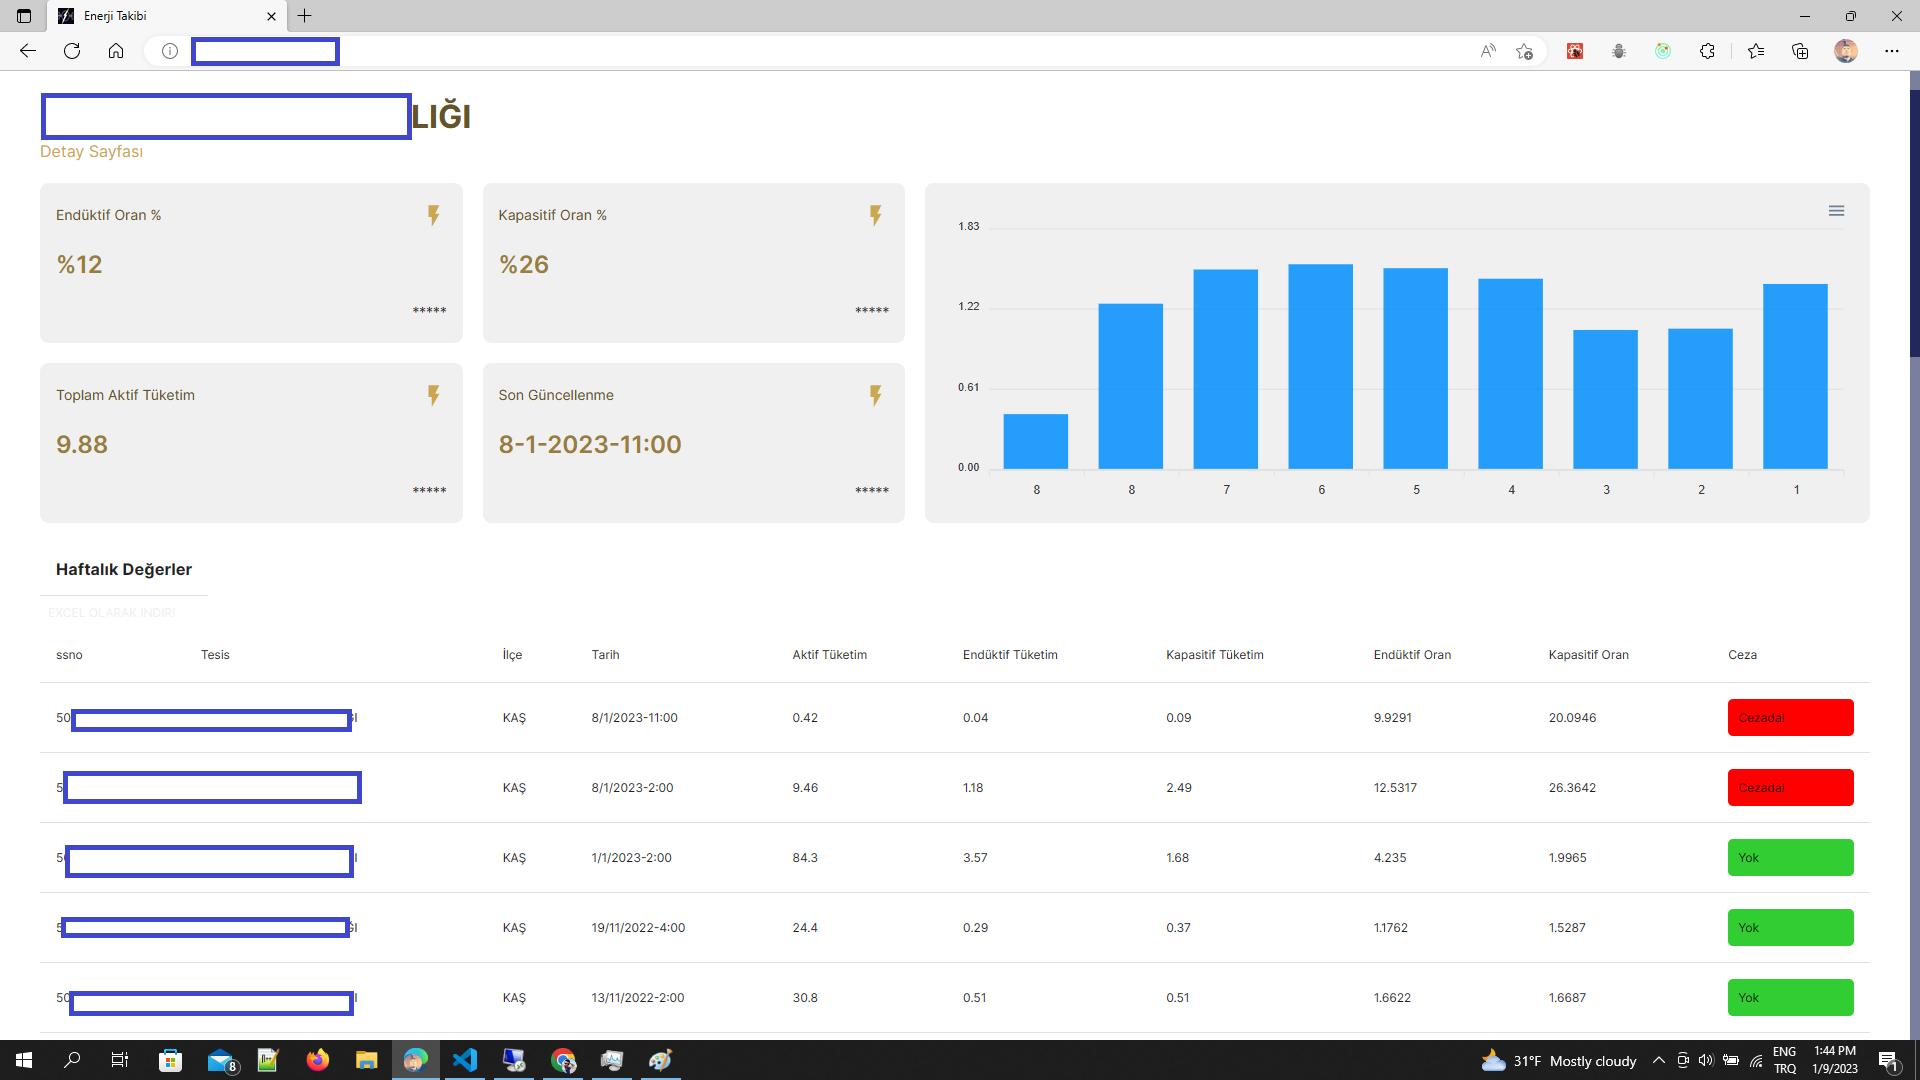
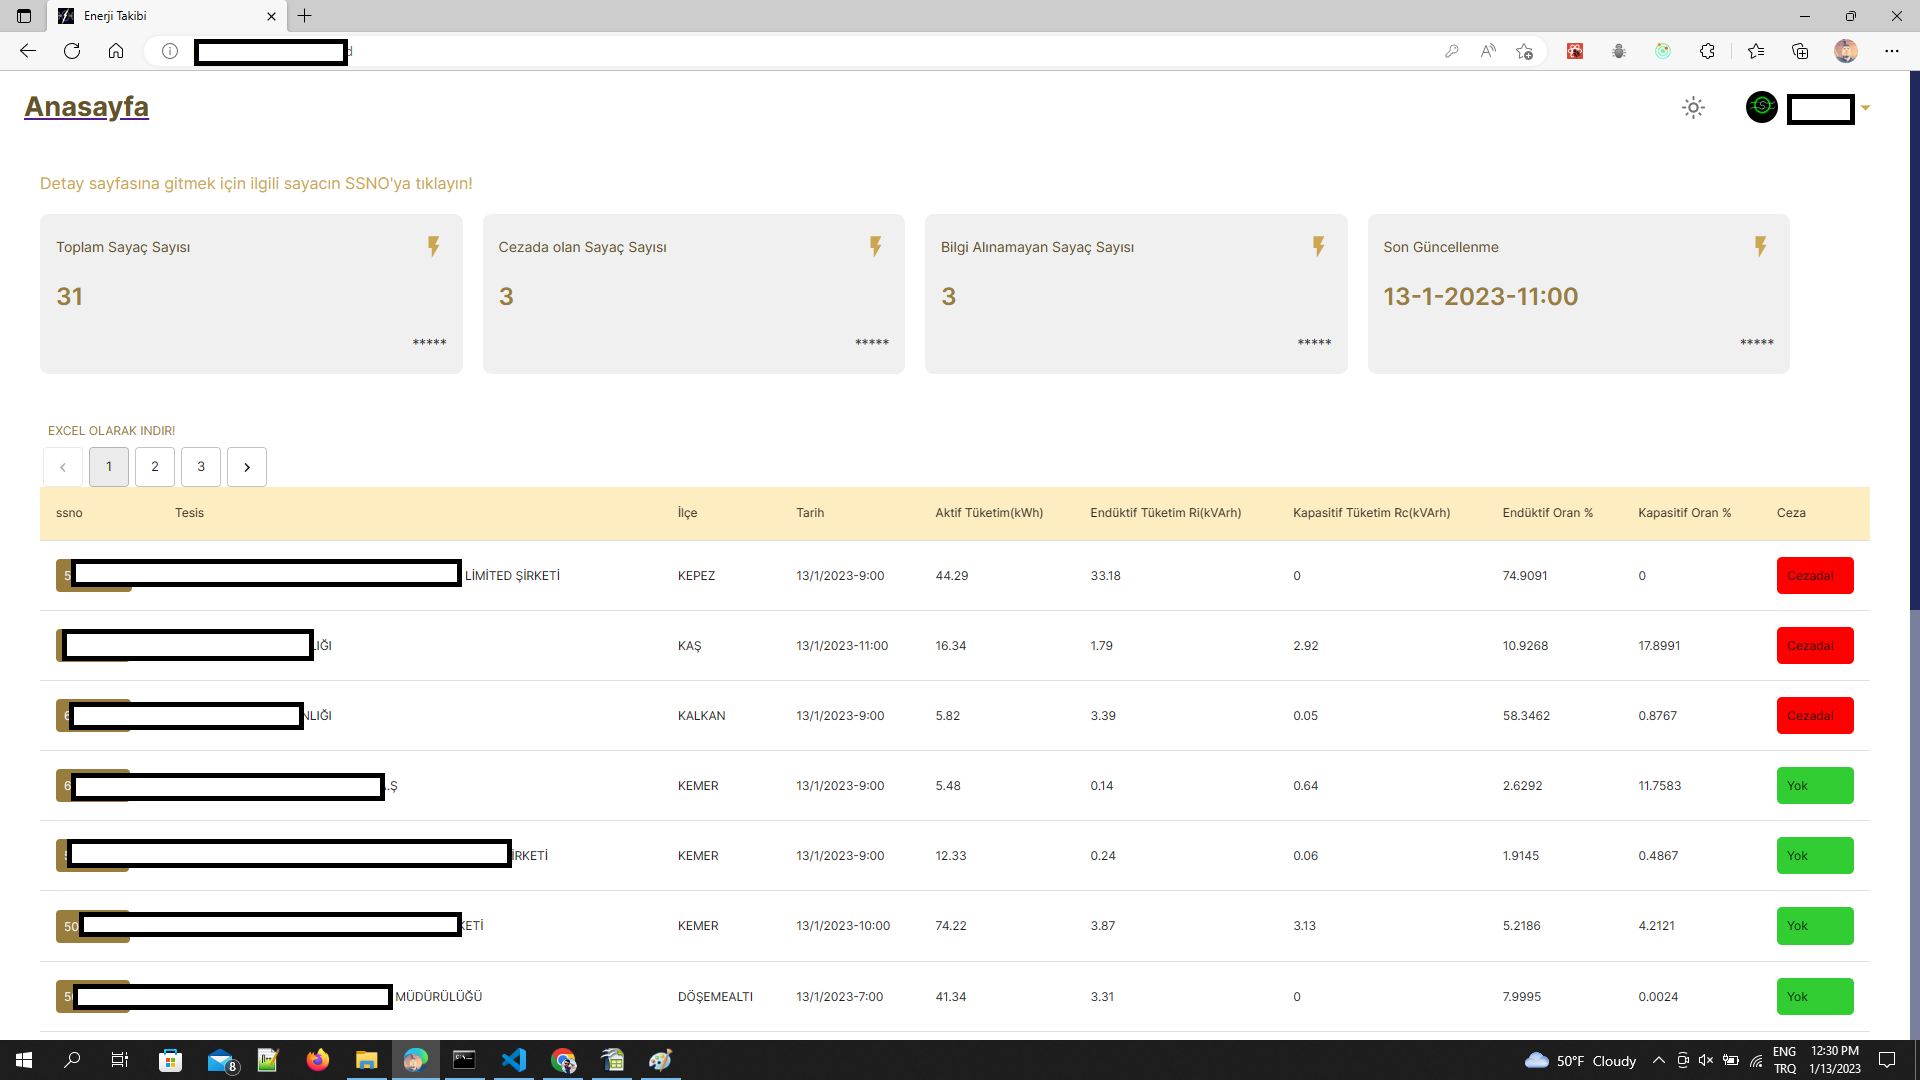
commit

diff --git a/client/src/scenes/Login/Login.jsx b/client/src/scenes/Login/Login.jsx
@@ -67,7 +67,7 @@ const Login = () => {
             </Typography>
           )}
           <Typography variant="h5" gutterBottom>
-            Sign In
+            Giriş Yap!
           </Typography>
           <TextField
             label="Email"
@@ -80,7 +80,7 @@ const Login = () => {
             style={{ backgroundColor: "transparent" }}
           />
           <TextField
-            label="Password"
+            label="Şifre"
             fullWidth
             type="password"
             value={password}
@@ -90,15 +90,7 @@ const Login = () => {
             marginTop="1rem"
             style={{ backgroundColor: "transparent" }}
           />
-          <FormControlLabel
-            control={
-              <Checkbox
-                checked={rememberMe}
-                onChange={handleRememberMeChange}
-              />
-            }
-            label="Remember Me"
-          />
+
           <Button
             type="submit"
             variant="contained"
@@ -106,7 +98,7 @@ const Login = () => {
             fullWidth
             style={{ marginTop: "1rem" }}
           >
-            {isLoading ? "Loading..." : "Login"}
+            {isLoading ? "Loading..." : "Giriş!"}
           </Button>
         </form>
       </Box>

diff --git a/client/src/components/DailyTable.jsx b/client/src/components/DailyTable.jsx
@@ -75,37 +75,37 @@ const DailyTable = () => {
       minWidth: isMobile ? "50px" : "70px"
     },
     {
-      headerName: "Aktif SD",
+      headerName: "Aktif SD (kWh)",
       field: "active",
       flex: 0.5,
       minWidth: isMobile ? "50px" : "70px",
     },
     {
-      headerName: "Endüktif SD",
+      headerName: "Endüktif SD Ri(kVArh)",
       field: "inductive",
       flex: 0.5,
       minWidth: isMobile ? "50px" : "70px",
     },
     {
-      headerName: "Kapasitif SD",
+      headerName: "Kapasitif SD Rc(kVArh)",
       field: "capacitive",
       flex: 0.5,
       minWidth: isMobile ? "50px" : "70px",
     },
     {
-      headerName: "Aktif Tüketim",
+      headerName: "Aktif Tüketim (kWh)",
       field: "active_cons",
       flex: 0.5,
       minWidth: isMobile ? "50px" : "70px",
     },
     {
-      headerName: "Endüktif Tüketim",
+      headerName: "Endüktif Tüketim Ri(kVArh)",
       field: "inductive_cons",
       flex: 0.5,
       minWidth: isMobile ? "50px" : "70px",
     },
     {
-      headerName: "Kapasitif Tüketim",
+      headerName: "Kapasitif Tüketim Rc(kVArh)",
       field: "capacitive_cons",
       flex: 0.5,
       minWidth: isMobile ? "50px" : "70px",

diff --git a/client/src/components/HourlyTable.jsx b/client/src/components/HourlyTable.jsx
@@ -78,37 +78,37 @@ const HourlyData = () => {
       minWidth: isMobile ? "50px" : "70px"
     },
     {
-      headerName: "Aktif SD",
+      headerName: "Aktif SD (kWh)",
       field: "active",
       flex: 0.5,
       minWidth: isMobile ? "50px" : "70px",
     },
     {
-      headerName: "Endüktif SD",
+      headerName: "Endüktif SD Ri(kVArh)",
       field: "inductive",
       flex: 0.5,
       minWidth: isMobile ? "50px" : "70px",
     },
     {
-      headerName: "Kapasitif SD",
+      headerName: "Kapasitif SD Rc(kVArh)",
       field: "capacitive",
       flex: 0.5,
       minWidth: isMobile ? "50px" : "70px",
     },
     {
-      headerName: "Aktif Tüketim",
+      headerName: "Aktif Tüketim (kWh)",
       field: "active_cons",
       flex: 0.5,
       minWidth: isMobile ? "50px" : "70px",
     },
     {
-      headerName: "Endüktif Tüketim",
+      headerName: "Endüktif Tüketim Ri(kVArh)",
       field: "inductive_cons",
       flex: 0.5,
       minWidth: isMobile ? "50px" : "70px",
     },
     {
-      headerName: "Kapasitif Tüketim",
+      headerName: "Kapasitif Tüketim Rc(kVArh)",
       field: "capacitive_cons",
       flex: 0.5,
       minWidth: isMobile ? "50px" : "70px",

diff --git a/client/src/components/WeeklyTable.jsx b/client/src/components/WeeklyTable.jsx
@@ -75,31 +75,31 @@ const WeeklyTable = () => {
     },
     
     {
-      headerName: "Aktif Tüketim",
+      headerName: "Aktif Tüketim (kWh)",
       field: "active_cons",
       flex: 0.5,
       minWidth: isMobile ? "50px" : "70px",
     },
     {
-      headerName: "Endüktif Tüketim",
+      headerName: "Endüktif Tüketim Ri(kVArh)",
       field: "inductive_cons",
       flex: 0.5,
       minWidth: isMobile ? "50px" : "70px",
     },
     {
-      headerName: "Kapasitif Tüketim",
+      headerName: "Kapasitif Tüketim Rc(kVArh)",
       field: "capacitive_cons",
       flex: 0.5,
       minWidth: isMobile ? "50px" : "70px",
     },
     {
-      headerName: "Endüktif Oran",
+      headerName: "Endüktif Oran %",
       field: "inductive_ratio",
       flex: 0.5,
       minWidth: isMobile ? "50px" : "70px",
     },
     {
-      headerName: "Kapasitif Oran",
+      headerName: "Kapasitif Oran %",
       field: "capacitive_ratio",
       flex: 0.5,
       minWidth: isMobile ? "50px" : "70px",

diff --git a/client/src/scenes/dashboard/index.jsx b/client/src/scenes/dashboard/index.jsx
@@ -114,31 +114,31 @@ const Dashboard = () => {
     
     
     {
-      headerName: "Aktif Tüketim",
+      headerName: "Aktif Tüketim(kWh)",
       field: "active_cons",
       flex: 0.5,
       minWidth: isMobile ? "50px" : "70px",
     },
     {
-      headerName: "Endüktif Tüketim",
+      headerName: "Endüktif Tüketim Ri(kVArh)",
       field: "inductive_cons",
       flex: 0.5,
       minWidth: isMobile ? "50px" : "70px",
     },
     {
-      headerName: "Kapasitif Tüketim",
+      headerName: "Kapasitif Tüketim Rc(kVArh)",
       field: "capacitive_cons",
       flex: 0.5,
       minWidth: isMobile ? "50px" : "70px",
     },
     {
-      headerName: "Endüktif Oran",
+      headerName: "Endüktif Oran %",
       field: "inductive_ratio",
       flex: 0.5,
       minWidth: isMobile ? "50px" : "70px",
     },
     {
-      headerName: "Kapasitif Oran",
+      headerName: "Kapasitif Oran %",
       field: "capacitive_ratio",
       flex: 0.5,
       minWidth: isMobile ? "50px" : "70px",

diff --git a/client/src/scenes/detail/index.jsx b/client/src/scenes/detail/index.jsx
@@ -100,7 +100,7 @@ const Detail = () => {
         </Box>
 
         <StatBox
-          title="Toplam Aktif Tüketim"
+          title="Toplam Aktif Tüketim (kWh)"
           value={rowData && rowData.active_cons}
           description="*****"
           icon={
